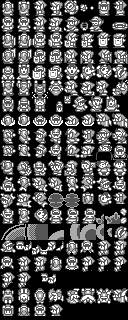
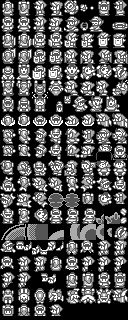
RANDO: Unmirrored link up & down movement sprites
As requested by Snow; this allows for more flexible sprite modification
for asymmetrical sprites.

Changed region(s): [[0.5, 0.8438, 1.0, 0.9062]]

diff --git a/tools/gfx/unflipLinkSprite.py b/tools/gfx/unflipLinkSprite.py
@@ -14,41 +14,49 @@ from PIL import Image
 # 8x16 sprites to be "unflipped" (key = src tile x/y, value = dest tile x/y, where x/y are positions
 # in the sprite sheet measured in 8x16 tiles)
 unflips = {
-        (13,1): (0,19),
-        (14,1): (14,1),
-        (15,1): (0,4),
-        (0,4): (2,19),
-        (1,4): (4,19),
-        (8,4): (8,4),
-        (15,4): (6,5),
-        (4,5): (4,5),
-        (5,5): (0,6),
-        (6,5): (2,6),
-        (7,5): (4,6),
-        (0,6): (0,18),
-        (1,6): (2,18),
-        (2,6): (4,18),
-        (15,6): (2,4),
-        (4,7): (4,7),
-        (5,7): (6,7),
-        (10,7): (6,12),
-        (11,7): (8,12),
-        (6,12): (10,18),
-        (7,12): (12,18),
-        }
+  (13,1): (0,19),
+  (14,1): (14,1),
+  (15,1): (0,4),
+  (0,4): (2,19),
+  (1,4): (4,19),
+  (8,4): (8,4),
+  (15,4): (6,5),
+  (4,5): (4,5),
+  (5,5): (0,6),
+  (6,5): (2,6),
+  (7,5): (4,6),
+  (0,6): (0,18),
+  (1,6): (2,18),
+  (2,6): (4,18),
+  (15,6): (2,4),
+  (4,7): (4,7),
+  (5,7): (6,7),
+  (10,7): (6,12),
+  (11,7): (8,12),
+  (6,12): (10,18),
+  (7,12): (12,18),
+}
 
 # 16x16 sprites to be shifted somewhere else
 translations = {
-        (2,4): (6,19),
-        (9,4): (10,4),
-        (11,4): (12,4),
-        (13,4): (14,4),
-        (3,6): (6,18),
-        (5,6): (8,18),
-        (6,7): (8,7),
-        (8,7): (10,7),
-        (8,12): (14,18),
-        }
+  (2,4): (6,19),
+  (9,4): (10,4),
+  (11,4): (12,4),
+  (13,4): (14,4),
+  (3,6): (6,18),
+  (5,6): (8,18),
+  (6,7): (8,7),
+  (8,7): (10,7),
+  (8,12): (14,18),
+}
+
+# 16x16 sprites to be copied & mirrored somewhere else
+mirrors = {
+  (0,0): (8,17),
+  (2,0): (10,17),
+  (0,1): (12,17),
+  (12,0): (14,17),
+}
 
 
 # Width/height of spritesheets in 8x16 tiles
@@ -104,12 +112,22 @@ while y < INPUT_HEIGHT:
         destY = y
         if not isExpandedRom and (x,y) in unflips:
             destX, destY = unflips[x,y]
-            drawTile(img, destX * 8, destY * 16, srcAddr)
-            drawTile(img, destX * 8 + 8, destY * 16, srcAddr, True)
+            drawTile(img, destX * 8,     destY * 16, srcAddr)
+            drawTile(img, destX * 8 + 8, destY * 16, srcAddr, flipX=True)
         elif not isExpandedRom and (x,y) in translations:
             destX, destY = translations[x,y]
-            drawTile(img, destX * 8, destY * 16, srcAddr)
+            drawTile(img, destX * 8,     destY * 16, srcAddr)
             drawTile(img, destX * 8 + 8, destY * 16, srcAddr + 0x20)
+            x = x+1
+        elif not isExpandedRom and (x,y) in mirrors:
+            # Draw original unchanged
+            drawTile(img, x * 8,     y * 16, srcAddr)
+            drawTile(img, x * 8 + 8, y * 16, srcAddr + 0x20)
+
+            # Draw mirrored version
+            destX, destY = mirrors[x,y]
+            drawTile(img, destX * 8 + 8, destY * 16, srcAddr,        flipX=True)
+            drawTile(img, destX * 8,     destY * 16, srcAddr + 0x20, flipX=True)
             x = x+1
         else:
             drawTile(img, destX * 8, destY * 16, srcAddr)
